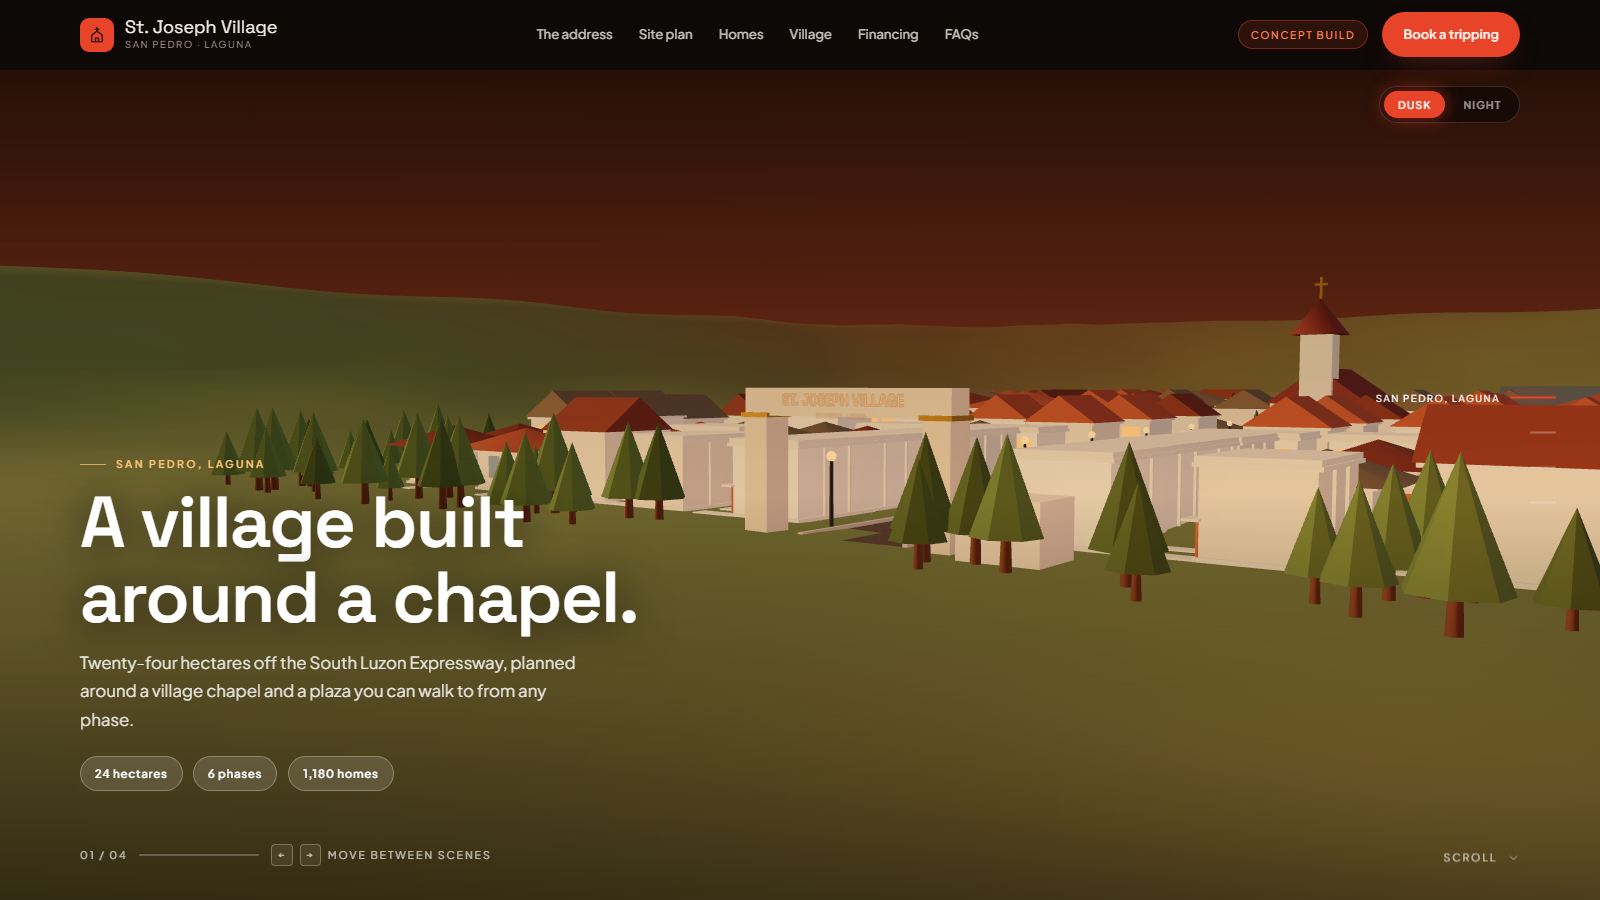
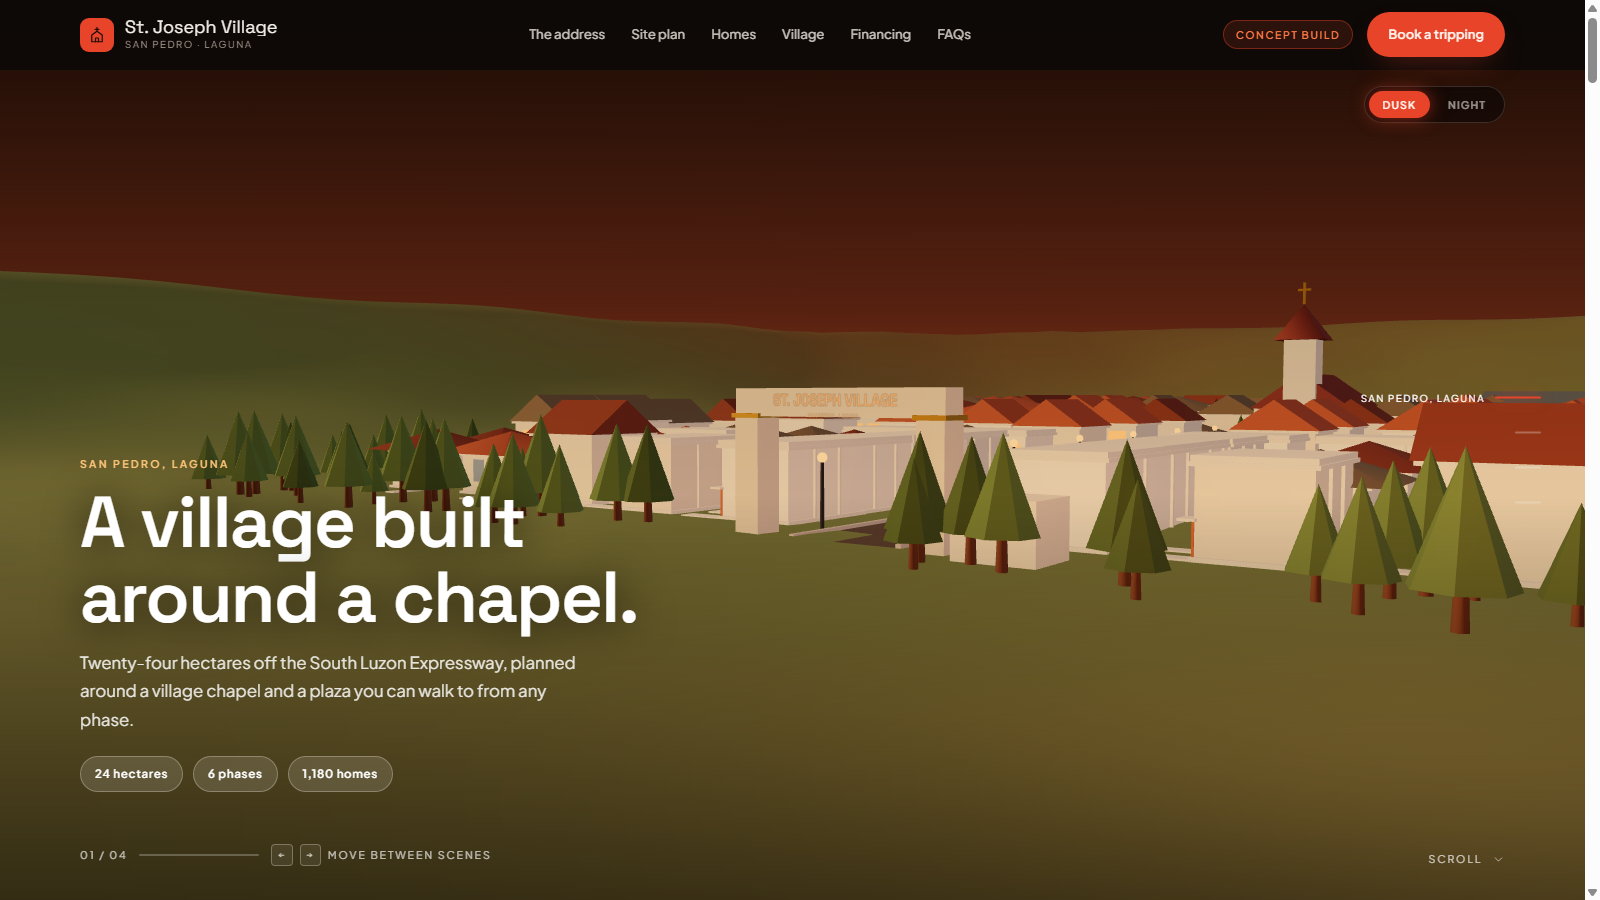
Add a build-story drawer to the two flagship projects
Both highlights now carry a Read the build story button that opens a
drawer with the problem, the approach, the commit proof and the links
out, so the long version is one click away instead of crowding the grid.

The drawer behaves like a modal: Escape, the close button and the scrim
each close it, page scroll is locked while it is open, focus returns to
the button that opened it, and Tab wraps inside the panel rather than
walking out to the cards behind it. Its scrim also sits above the
scroll-to-top button now, which had been covering the secondary action on
phones.

Counters come from PROJECT_COUNT and TOTAL_TECH_SKILLS instead of the
hardcoded 7 and 10, the LinkedIn sidebar entry is gone because it pointed
at the LinkedIn home page, and the St. Joseph screenshot is recaptured
because the old capture still showed the copy with a dash in it.

diff --git a/src/components/ProjectsGrid.jsx b/src/components/ProjectsGrid.jsx
@@ -1,3 +1,4 @@
+import { useState, useRef, useEffect } from "react";
 import { ArrowUpRight } from "reicon-react";
 import DailyDrivers from "./DailyDrivers";
 
@@ -5,7 +6,8 @@ import DailyDrivers from "./DailyDrivers";
    A glass panel holding raised cards: monochrome stack marks, an orange
    kicker, the title, one line of what it is, the stack tags and an arrow.
    Each card is an <a> straight to the live build (or its source when there
-   is nothing deployed), so nothing here needs a second click.
+   is nothing deployed). The two flagships also carry a story button: the
+   long version of the work opens in a drawer instead of crowding the grid.
 
    Random Web Dev is the flagship and St. Joseph Village is the second
    highlight: both span the full row and carry a real screenshot, the way
@@ -23,6 +25,11 @@ const PROJECTS = [
     demo: "https://random-learning-webdev-site.vercel.app",
     code: "https://github.com/houtaroudes/random-learning-webdev-site",
     shot: "/images/shot-learning.png",
+    story: {
+      problem: "Learning resources are passive: videos and docs you watch but never touch. It is hard to tell whether you can actually build anything.",
+      approach: "I built a hub that treats practice like a game: 26+ exercises with live previews you can open in the browser, code challenges with instant feedback, and progress that unlocks as you go.",
+      proof: "23 commits on GitHub, deployed live on Vercel",
+    },
   },
   {
     id: "st-joseph-village",
@@ -35,6 +42,11 @@ const PROJECTS = [
     demo: "https://st-joseph-village.vercel.app",
     code: "https://github.com/houtaroudes/st-joseph-village",
     shot: "/images/shot-stjoseph.png",
+    story: {
+      problem: "Subdivision landing pages are static galleries: rows of photos that give no feel for the place or the actual math of buying a lot.",
+      approach: "I made the village itself the page: a generated 3D scene in Three.js that you fly through on scroll, a clickable 68-lot site plan, and a financing calculator with real Pag-IBIG vs bank numbers.",
+      proof: "17 commits on GitHub, deployed live on Vercel",
+    },
   },
   {
     id: "motion",
@@ -53,7 +65,6 @@ const PROJECTS = [
     desc: "A photobooth web app with a PHP + MySQL backend, built solo as a school project.",
     tags: ["PHP", "MySQL", "CSS", "JS"],
     logos: ["/icons/php.svg", "/icons/mysql.svg", "/icons/javascript.svg"],
-    demo: "https://pixelpodweb.vercel.app",
     code: "https://github.com/houtaroudes/PixelPodWeb",
   },
   {
@@ -95,11 +106,15 @@ const PROJECTS = [
   },
 ];
 
+export { PROJECT_COUNT };
+
 const Eyebrow = () => (
   <svg width="8" height="8" viewBox="0 0 8 8" fill="currentColor" style={{ marginRight: 6 }} aria-hidden="true">
     <path d="M4 0L8 4L4 8L0 4Z" />
   </svg>
 );
+
+const PROJECT_COUNT = PROJECTS.filter((p) => p.id !== "more").length;
 
 function Marks({ logos }) {
   return (
@@ -111,10 +126,98 @@ function Marks({ logos }) {
   );
 }
 
-function ProjectCard({ project }) {
+function StoryDrawer({ project, onClose }) {
+  const panelRef = useRef(null);
+  useEffect(() => {
+    const panel = panelRef.current;
+    /* aria-modal tells assistive tech the page behind is inert, so Tab has
+       to stop at the drawer edges instead of walking out to the cards. */
+    const focusables = () =>
+      panel ? [...panel.querySelectorAll('a[href], button:not([disabled])')] : [];
+    const onKey = (e) => {
+      if (e.key === "Escape") {
+        onClose();
+        return;
+      }
+      if (e.key !== "Tab") return;
+      const items = focusables();
+      if (!items.length) return;
+      const first = items[0];
+      const last = items[items.length - 1];
+      const leavingBackwards = e.shiftKey && (document.activeElement === first || document.activeElement === panel);
+      if (leavingBackwards) {
+        e.preventDefault();
+        last.focus();
+      } else if (!e.shiftKey && document.activeElement === last) {
+        e.preventDefault();
+        first.focus();
+      }
+    };
+    window.addEventListener("keydown", onKey);
+    document.body.style.overflow = "hidden";
+    if (panel) panel.focus();
+    return () => {
+      window.removeEventListener("keydown", onKey);
+      document.body.style.overflow = "";
+    };
+  }, [onClose]);
   return (
+    <div className="story-overlay" onClick={onClose}>
+      <aside
+        className="story-panel"
+        role="dialog"
+        aria-modal="true"
+        aria-label={`${project.title} build story`}
+        ref={panelRef}
+        tabIndex={-1}
+        onClick={(e) => e.stopPropagation()}
+      >
+        <button type="button" className="story-close" onClick={onClose} aria-label="Close build story">
+          <svg width="16" height="16" viewBox="0 0 16 16" fill="none" stroke="currentColor" strokeWidth="1.6" strokeLinecap="round" aria-hidden="true">
+            <path d="M3 3l10 10M13 3L3 13" />
+          </svg>
+        </button>
+        <span className="prj-kicker">Build story</span>
+        <h3 className="story-title">{project.title}</h3>
+        {project.shot && (
+          <span className="story-shot">
+            <img src={project.shot} alt={`${project.title} screenshot`} />
+          </span>
+        )}
+        <div className="story-block">
+          <span className="story-label">The problem</span>
+          <p>{project.story.problem}</p>
+        </div>
+        <div className="story-block">
+          <span className="story-label">The approach</span>
+          <p>{project.story.approach}</p>
+        </div>
+        <p className="story-proof">
+          <svg width="14" height="14" viewBox="0 0 24 24" fill="none" stroke="currentColor" strokeWidth="1.5" strokeLinecap="round" strokeLinejoin="round" aria-hidden="true">
+            <path d="M9 19c-4 1.2-4-2.1-5.5-2.5M17 22v-3.2c0-.9-.3-1.5-.6-1.8 2.1-.2 4.3-1 4.3-4.7 0-1-.4-1.9-1-2.6.1-.3.4-1.3-.1-2.7 0 0-.9-.3-2.9 1a10 10 0 00-5.4 0c-2-1.3-2.9-1-2.9-1-.5 1.4-.2 2.4-.1 2.7-.6.7-1 1.6-1 2.6 0 3.7 2.2 4.5 4.3 4.7-.3.3-.5.7-.6 1.4V22" />
+          </svg>
+          {project.story.proof}
+        </p>
+        <div className="story-actions">
+          {project.demo && (
+            <a className="story-btn story-btn--primary" href={project.demo} target="_blank" rel="noopener noreferrer">
+              Open the live build
+              <ArrowUpRight size={15} weight="Outline" aria-hidden="true" />
+            </a>
+          )}
+          <a className="story-btn" href={project.code} target="_blank" rel="noopener noreferrer">
+            View the code
+          </a>
+        </div>
+      </aside>
+    </div>
+  );
+}
+
+function ProjectCard({ project, onStory }) {
+  const card = (
     <a
-      className={`prj-card${project.flag ? " prj-card--flag" : ""}`}
+      className={`prj-card${project.flag && !project.story ? " prj-card--flag" : ""}`}
       href={project.demo || project.code}
       target="_blank"
       rel="noopener noreferrer"
@@ -142,9 +245,32 @@ function ProjectCard({ project }) {
       )}
     </a>
   );
+  if (!project.story) return card;
+  return (
+    <div className={`prj-cardwrap${project.flag ? " prj-cardwrap--flag" : ""}`}>
+      {card}
+      <button
+        type="button"
+        className="prj-story-btn"
+        onClick={(e) => onStory(project, e.currentTarget)}
+      >
+        Read the build story
+      </button>
+    </div>
+  );
 }
 
 export default function ProjectsGrid() {
+  const [story, setStory] = useState(null);
+  const storyTrigger = useRef(null);
+  const openStory = (project, trigger) => {
+    storyTrigger.current = trigger;
+    setStory(project);
+  };
+  const closeStory = () => {
+    setStory(null);
+    if (storyTrigger.current) storyTrigger.current.focus();
+  };
   return (
     <div className="prj">
       <header className="prj-head reveal">
@@ -179,10 +305,11 @@ export default function ProjectsGrid() {
         </span>
         <div className="prj-grid">
           {PROJECTS.map((p) => (
-            <ProjectCard key={p.id} project={p} />
+            <ProjectCard key={p.id} project={p} onStory={openStory} />
           ))}
         </div>
       </div>
+      {story && <StoryDrawer project={story} onClose={closeStory} />}
     </div>
   );
 }

diff --git a/src/index.css b/src/index.css
@@ -560,11 +560,81 @@ footer{border-top:1px solid var(--border);padding:34px var(--container-x);text-a
 }
 .prj-card:hover .prj-shot img{transform:scale(1.03)}
 
+/* Cards that carry a build story sit in a wrapper so the grid child stays
+   the card itself when there is no story (keeps one DOM shape per card type). */
+.prj-cardwrap{position:relative;display:flex;flex-direction:column}
+.prj-cardwrap .prj-card{flex:1}
+.prj-cardwrap--flag{grid-column:1/-1}
+.prj-cardwrap--flag .prj-card{flex-direction:row;align-items:center;gap:26px}
+.prj-cardwrap--flag .prj-shot{flex:1.15;max-width:46%}
+.prj-story-btn{
+  margin-top:12px;align-self:flex-start;
+  display:inline-flex;align-items:center;gap:7px;
+  padding:0;border:0;background:none;cursor:pointer;
+  font-family:var(--font-display);font-size:0.8rem;font-weight:600;
+  color:var(--ink);border-bottom:2px solid var(--orange);
+  padding-bottom:3px;
+  transition:color .2s;
+}
+.prj-story-btn::after{content:"\2192";color:var(--orange);transition:transform .25s var(--ease-out)}
+.prj-story-btn:hover{color:var(--orange)}
+.prj-story-btn:hover::after{transform:translateX(3px)}
+.prj-story-btn:focus-visible{outline:2px solid var(--orange);outline-offset:3px}
+
+/* Build-story drawer: slides from the right over a dim scrim. */
+/* z-index 100 keeps the scrim above the scroll-to-top button (90) and the
+   sidebar (85). At 80 the button floated over the panel and covered the
+   secondary action on phones. */
+.story-overlay{position:fixed;inset:0;z-index:100;background:rgba(11,30,63,0.55);animation:story-fade .25s ease}
+@keyframes story-fade{from{opacity:0}to{opacity:1}}
+.story-panel{
+  position:absolute;top:0;right:0;height:100%;width:min(520px,100%);
+  display:flex;flex-direction:column;gap:16px;
+  background:var(--bg-card);border-left:1px solid var(--border);
+  padding:56px 34px 34px;overflow-y:auto;
+  box-shadow:-30px 0 70px -30px rgba(11,30,63,0.6);
+  animation:story-in .3s var(--ease-out);outline:none;
+}
+@keyframes story-in{from{transform:translateX(40px);opacity:0}to{transform:none;opacity:1}}
+.story-close{
+  position:absolute;top:18px;right:18px;
+  width:36px;height:36px;border-radius:50%;
+  display:inline-flex;align-items:center;justify-content:center;
+  border:1px solid var(--border-strong);background:none;color:var(--muted);cursor:pointer;
+  transition:border-color .2s,color .2s,transform .2s;
+}
+.story-close:hover{border-color:var(--orange);color:var(--orange);transform:rotate(90deg)}
+.story-close:focus-visible{outline:2px solid var(--orange);outline-offset:3px}
+.story-title{font-family:var(--font-display);font-size:1.5rem;font-weight:800;letter-spacing:-0.02em;color:var(--ink)}
+.story-shot{display:block;border-radius:14px;overflow:hidden;border:1px solid var(--border);box-shadow:0 18px 44px -18px rgba(11,30,63,0.35)}
+.story-shot img{display:block;width:100%;height:auto;aspect-ratio:16/9;object-fit:cover;object-position:top center}
+.story-block{display:flex;flex-direction:column;gap:6px}
+.story-label{font-size:0.62rem;font-weight:700;letter-spacing:0.16em;text-transform:uppercase;color:var(--orange)}
+.story-block p{font-size:0.9rem;line-height:1.65;color:var(--ink)}
+.story-proof{display:flex;align-items:center;gap:8px;font-size:0.78rem;font-weight:600;color:var(--muted);border-top:1px solid var(--border);padding-top:14px}
+.story-proof svg{flex:none;color:var(--orange)}
+.story-actions{display:flex;gap:10px;flex-wrap:wrap;margin-top:auto;padding-top:8px}
+.story-btn{
+  display:inline-flex;align-items:center;gap:7px;
+  height:44px;padding:0 20px;border-radius:var(--radius-pill);
+  border:1px solid var(--border-strong);color:var(--ink);
+  font-family:var(--font-display);font-size:0.82rem;font-weight:600;
+  transition:border-color .2s,color .2s,transform .2s;
+}
+.story-btn:hover{border-color:var(--orange);color:var(--orange);transform:translateY(-2px)}
+.story-btn:focus-visible{outline:2px solid var(--orange);outline-offset:3px}
+.story-btn--primary{background:var(--navy);border-color:var(--navy);color:var(--cream)}
+.story-btn--primary svg{color:var(--orange)}
+.story-btn--primary:hover{color:var(--cream);border-color:var(--navy)}
+[data-theme="dark"] .story-btn--primary{background:#E9EDF5;border-color:#E9EDF5;color:#0B1E3F}
+[data-theme="dark"] .story-btn--primary:hover{color:#0B1E3F}
+
 @media (max-width:1180px){.prj-grid{grid-template-columns:repeat(2,minmax(0,1fr))}}
 @media (max-width:680px){
   .prj-grid{grid-template-columns:1fr}
-  .prj-card--flag{flex-direction:column;align-items:stretch}
-  .prj-card--flag .prj-shot{max-width:none}
+  .prj-card--flag,.prj-cardwrap--flag .prj-card{flex-direction:column;align-items:stretch}
+  .prj-card--flag .prj-shot,.prj-cardwrap--flag .prj-shot{max-width:none}
+  .story-panel{padding:52px 22px 24px}
   .prj-panel{padding:24px 12px 12px}
   .prj-hint{font-size:0.6rem;padding:5px 10px}
   /* The template drops its CTA on phones because the tab bar carries it; v2

diff --git a/src/App.jsx b/src/App.jsx
@@ -3,7 +3,7 @@ import { motion, AnimatePresence } from "framer-motion";
 import { Sun, Moon, ArrowUp, Envelope, Home, User, Briefcase, MessageCircle, Gamepad } from "reicon-react";
 // Decorative background - code-split so the shader stays out of the main bundle.
 const ContourBackground = lazy(() => import("./components/ContourBackground"));
-import ProjectsGrid from "./components/ProjectsGrid";
+import ProjectsGrid, { PROJECT_COUNT } from "./components/ProjectsGrid";
 import TechStack from "./components/TechStack";
 
 const IconGithub = ({ s = 16 }) => (
@@ -19,6 +19,7 @@ const EyebrowIcon = () => (
 import PixelTransition from "./components/PixelTransition";
 import GitHubHeatmap from "./components/GitHubHeatmap";
 import "./components/PixelTransition.css";
+import { TOTAL_TECH_SKILLS } from "./data/techStack";
 
 /* ===== Data ===== */
 const services = [
@@ -49,7 +50,6 @@ const NAV_ITEMS = [
 
 const SIDEBAR_SOCIALS = [
   { label: "GitHub", href: "https://github.com/houtaroudes" },
-  { label: "LinkedIn", href: "https://www.linkedin.com/" },
   { label: "Pixel Portfolio", href: "https://houtaroudes-game-portfolio.vercel.app" },
 ];
 
@@ -280,8 +280,8 @@ export default function PortfolioV2() {
 
   const handleNavClick = () => setSidebarOpen(false);
 
-  const { count: projectCount, ref: projectRef } = useCountUp(7);
-  const { count: skillCount, ref: skillRef } = useCountUp(10);
+  const { count: projectCount, ref: projectRef } = useCountUp(PROJECT_COUNT);
+  const { count: skillCount, ref: skillRef } = useCountUp(TOTAL_TECH_SKILLS);
 
   return (
     <>
